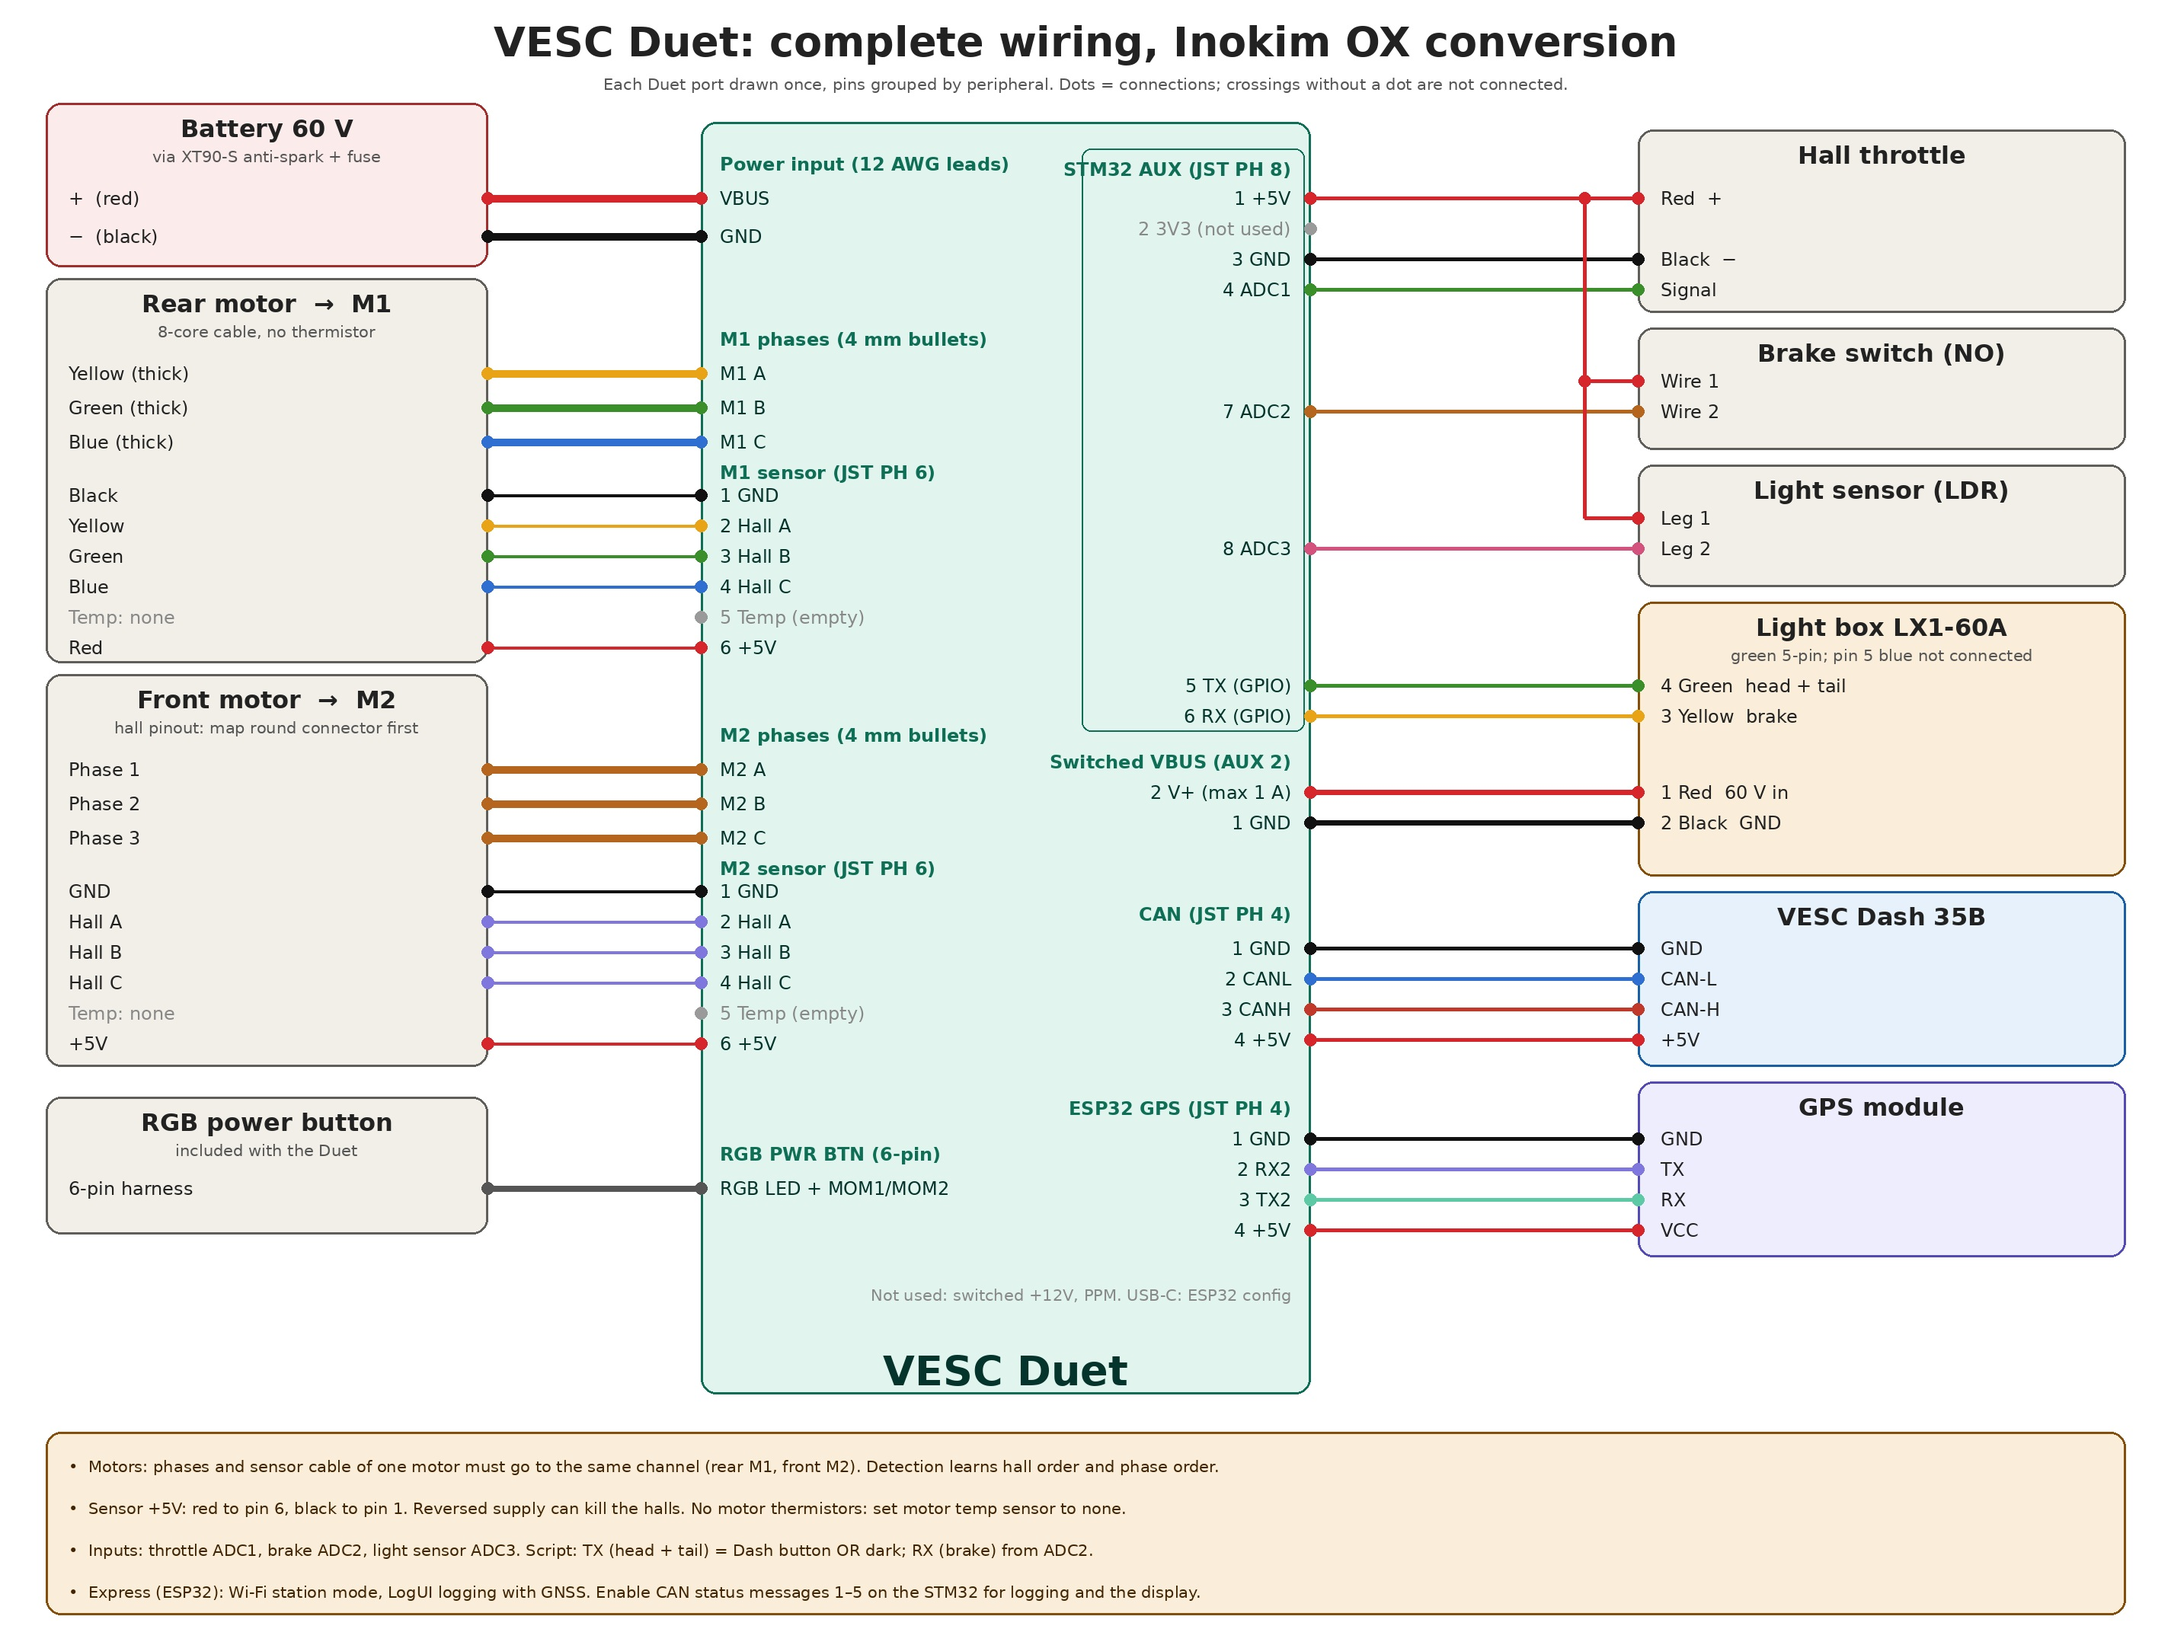
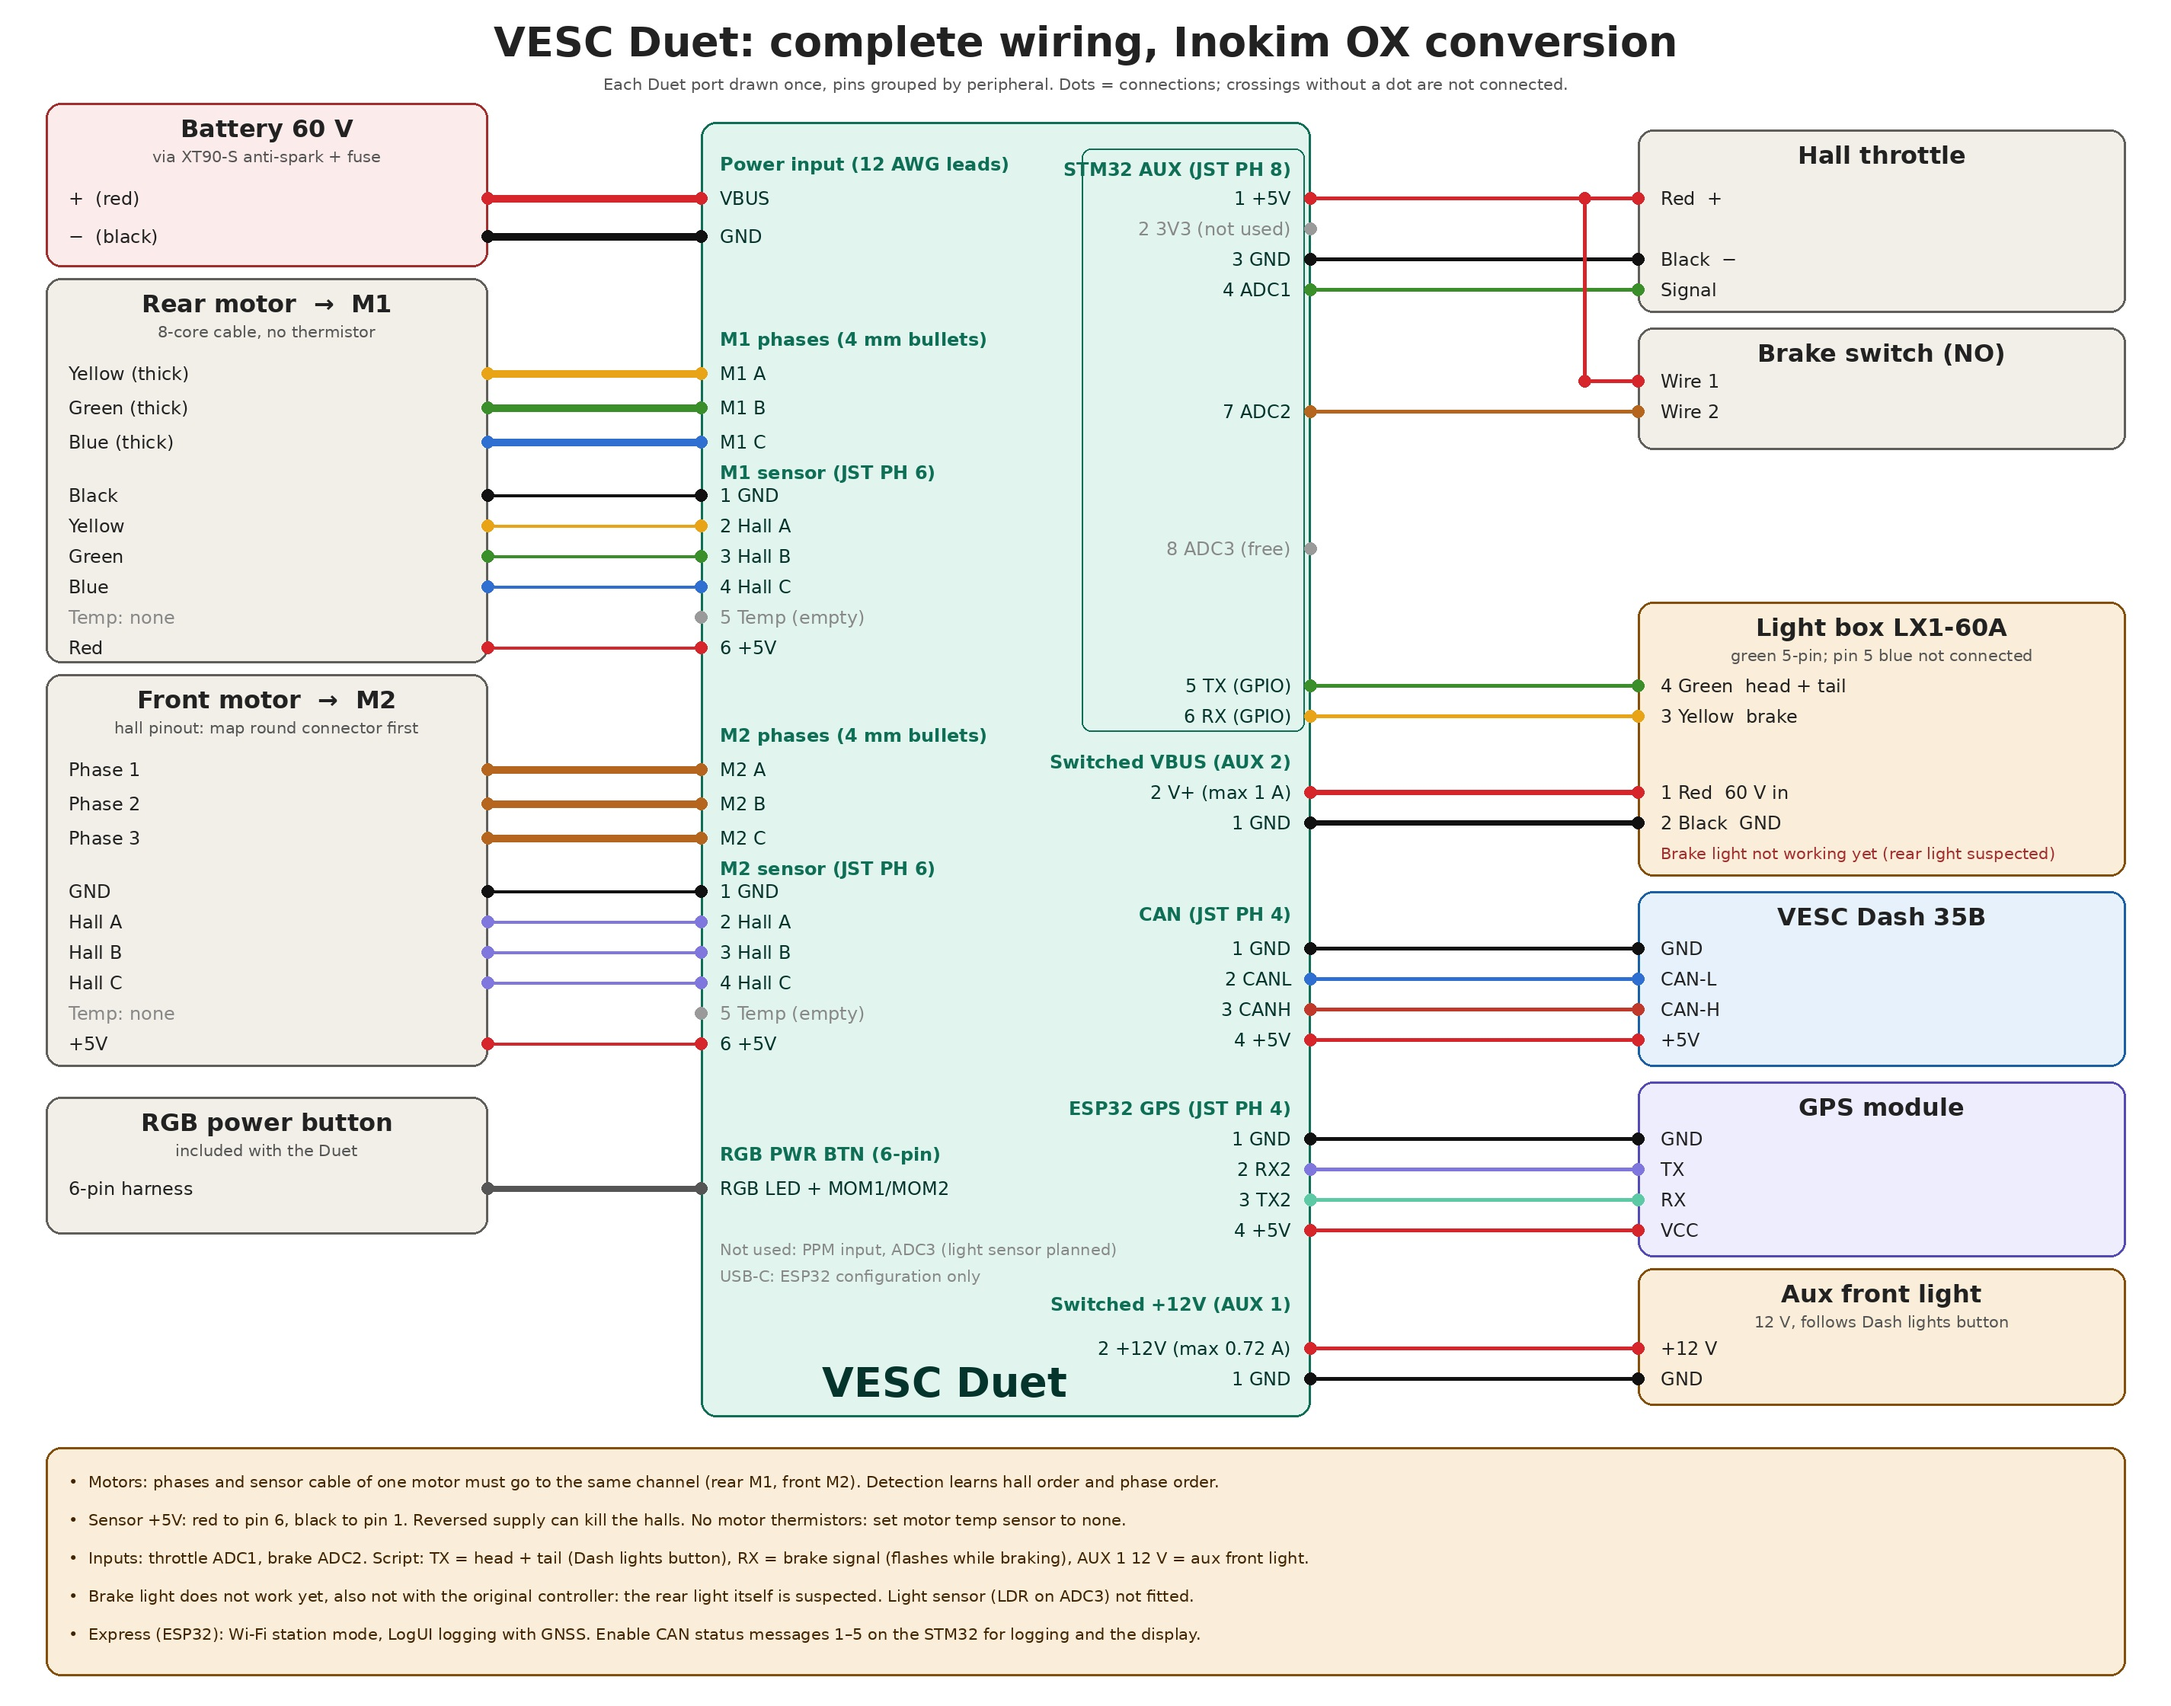
Wiring: add aux front light on switched 12 V, remove light sensor
- Aux front light connected to Switched +12V (AUX 1), follows the Dash
  lights button
- Light sensor removed from the schematic (ADC3 free, LDR planned)
- Brake light marked as not working; rear light suspected
- README: status section, AUX 1 connection, brake light notes

Claude-Session: https://claude.ai/code/session_01Dviz1na8y6J6uFUVAhiL4z

diff --git a/README.md b/README.md
@@ -12,7 +12,7 @@ Configs, LispBM script and wiring diagrams for converting an Inokim OXO scooter 
 | Battery | Orcell 60 V 16S, 27.5 Ah, BMS ~100–110 A continuous |
 | Tyres | 10×3.0, effective diameter 250 mm |
 | Display | VESC Dash 35B (CAN), package Dash35B + Dash ESC on the controller |
-| Lights | Inokim light module LX1-60A (60 V DC converter + LED control) |
+| Lights | Inokim light module LX1-60A (60 V DC converter + LED control); extra 12 V aux front light |
 | Inputs | 3-wire hall throttle (ADC1), normally-open brake switch (ADC2); LDR light sensor on ADC3 planned, not fitted |
 | GPS | u-blox type module on the ESP32 GPS port, logged by LogUI |
 
@@ -43,6 +43,7 @@ See `diagrams/duet_complete_wiring.jpg`.
 | | 7 ADC2 | Brake switch wire 2 |
 | | 8 ADC3 | Free (LDR leg 2, planned) |
 | Switched VBUS (AUX 2) | 2 V+ / 1 GND | Light box pin 1 red (60 V in) / pin 2 black |
+| Switched +12V (AUX 1) | 2 +12V / 1 GND | Aux front light (follows the Dash lights button, max 0.72 A) |
 | CAN (JST PH 4) | GND, CANL, CANH, +5V | Dash 35B |
 | ESP32 GPS (JST PH 4) | 1 GND, 2 RX2, 3 TX2, 4 +5V | GPS GND, TX, RX, VCC |
 
@@ -116,13 +117,17 @@ Based on Dash ESC 2.5 from [vedderb/vesc_pkg](https://github.com/vedderb/vesc_pk
 - TX → headlight + tail: follows the Dash lights button.
 - Automatic lights from an LDR on ADC3 (1.0 V on / 1.5 V off, 5 s delay) are written but commented out, as no sensor is fitted.
 - RX → rear/brake command: 3.3 V while the brake is pulled (flashing like the original controller by default, or steady with `brake-flash` = 0), otherwise steady 3.3 V with lights on. The brake light has not lit in tests yet with either signal; the rear light itself is suspected.
-- AUX 1 (switched 12 V) still follows the Dash lights button.
+- AUX 1 (switched 12 V) follows the Dash lights button and powers the aux front light.
 
 Untested on hardware. If the LDR is fitted later, uncomment the marked parts and calibrate the thresholds with `(get-adc 2)` in the REPL.
+
+## Status
+
+Working: both motors, throttle, regen brake, drive modes (Dash ESC), cruise control, headlight + tail light, aux front light, GPS logging.
 
 ## Known issues / to do
 
 - Field weakening causes the rear motor to keep driving after the throttle is released (wheels in the air). Kept off.
 - Front motor round-connector pinout not yet documented.
-- Rear light pin 2 behaviour while braking not yet measured.
+- Brake light does not light up, with either a flashing or a steady signal on the light box yellow input. It most likely did not work with the original controller either, so the rear light itself (or its wiring) is suspected. Next test: 1 kΩ from rear pin 2 to pin 4 (6 V), then to pin 3 (GND).
 - Optional: wheelie control (IMU, relative pitch) and regen ABS as LispBM additions.
